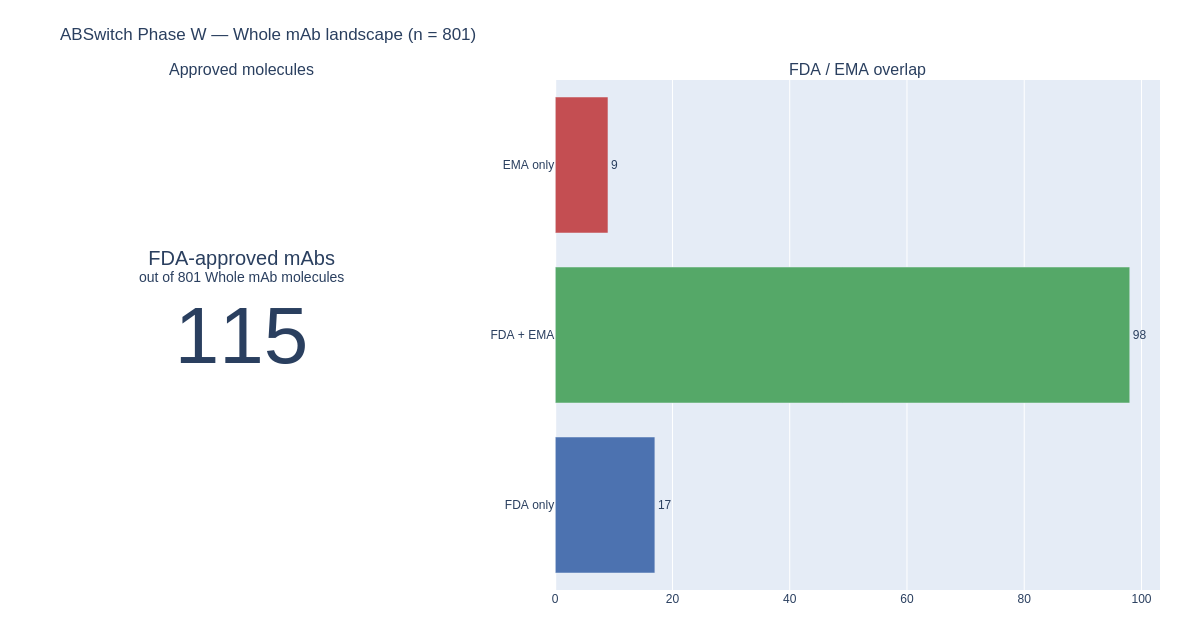
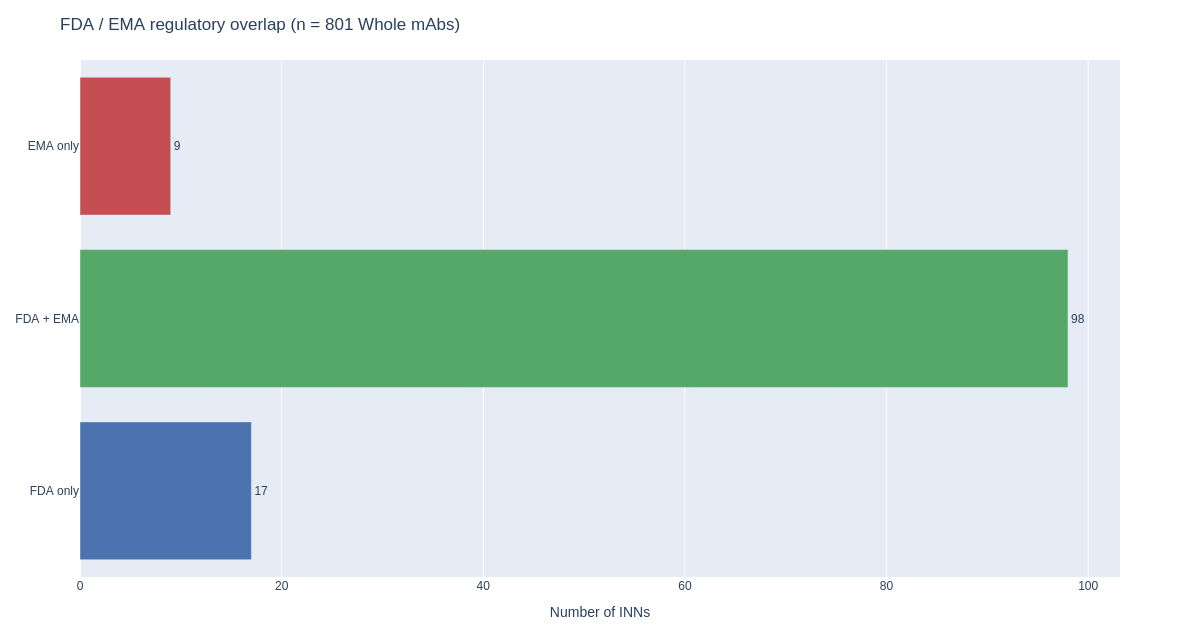
ABSwitch Phase W: publish dashboard + Excel + thumbnail (2026-04-19 22:51)

diff --git a/storybooks/abswitch_wmab/dashboard.html b/storybooks/abswitch_wmab/dashboard.html
@@ -44,16 +44,32 @@ nav a.dl-btn:hover { background: #34495e; }
 main { padding: 20px 40px; }
 .tab { display: none; }
 .tab.active { display: block; }
-.metric-row { display: flex; gap: 20px; margin-bottom: 20px; flex-wrap: wrap; }
+
+.metric-section {
+  margin-bottom: 14px;
+}
+.metric-section-title {
+  font-size: 11px; color: #888; font-weight: 600;
+  text-transform: uppercase; letter-spacing: 0.05em;
+  margin: 0 0 8px 4px;
+}
+.metric-grid {
+  display: grid;
+  grid-template-columns: repeat(3, 1fr);
+  gap: 16px;
+}
 .metric {
   background: white; border: 1px solid #e0e0e0; border-radius: 6px;
-  padding: 16px 20px; min-width: 140px;
+  padding: 16px 20px;
+  min-width: 0;
 }
 .metric .val   { font-size: 26px; font-weight: 600; color: #2c3e50; }
 .metric .label { font-size: 12px; color: #777; margin-top: 4px; }
+
 .fig-container {
   background: white; border: 1px solid #e0e0e0; border-radius: 6px;
   padding: 16px; margin-bottom: 20px;
+  margin-top: 20px;
 }
 footer { padding: 20px 40px; font-size: 12px; color: #888; }
 </style>
@@ -78,18 +94,35 @@ footer { padding: 20px 40px; font-size: 12px; color: #888; }
 <main>
 
   <section id="overview" class="tab active">
-    <div class="metric-row">
-      <div class="metric"><div class="val">801</div><div class="label">Whole mAb molecules (Thera-SAbDab)</div></div>
-      <div class="metric"><div class="val">115</div><div class="label">FDA-approved INNs</div></div>
-      <div class="metric"><div class="val">107</div><div class="label">EMA-approved INNs</div></div>
-      <div class="metric"><div class="val">18</div><div class="label">INNs with IV/SC dual product</div></div>
-      <div class="metric"><div class="val">567</div><div class="label">Approved products</div></div>
-      <div class="metric"><div class="val">121</div><div class="label">Originator brands</div></div>
-      <div class="metric"><div class="val">163</div><div class="label">Biosimilar brands</div></div>
-      <div class="metric"><div class="val">28,047</div><div class="label">ClinicalTrials.gov mAb trials</div></div>
-      <div class="metric"><div class="val">30</div><div class="label">IV → SC brand pairs</div></div>
+
+    <div class="metric-section">
+      <div class="metric-section-title">Overview — three axes</div>
+      <div class="metric-grid">
+        <div class="metric"><div class="val">801</div><div class="label">Whole mAb molecules (INNs)</div></div>
+        <div class="metric"><div class="val">567</div><div class="label">Approved products</div></div>
+        <div class="metric"><div class="val">28,047</div><div class="label">ClinicalTrials.gov mAb trials</div></div>
+      </div>
     </div>
-    <div class="fig-container"><div>                            <div id="fig-overview" class="plotly-graph-div" style="height:350px; width:100%;"></div>            <script type="text/javascript">                                    window.PLOTLYENV=window.PLOTLYENV || {};                                    if (document.getElementById("fig-overview")) {                    Plotly.newPlot(                        "fig-overview",                        [{"mode":"number","number":{"valueformat":",.0f"},"title":{"text":"FDA-approved mAbs\u003cbr\u003e\u003csup\u003eout of 801 Whole mAb molecules\u003c\u002fsup\u003e"},"value":115,"type":"indicator","domain":{"x":[0.0,0.36000000000000004],"y":[0.0,1.0]}},{"marker":{"color":["#4C72B0","#55A868","#C44E52"]},"orientation":"h","text":["17","98","9"],"textposition":"outside","x":[17,98,9],"y":["FDA only","FDA + EMA","EMA only"],"type":"bar","xaxis":"x","yaxis":"y"}],                        {"template":{"data":{"histogram2dcontour":[{"type":"histogram2dcontour","colorbar":{"outlinewidth":0,"ticks":""},"colorscale":[[0.0,"#0d0887"],[0.1111111111111111,"#46039f"],[0.2222222222222222,"#7201a8"],[0.3333333333333333,"#9c179e"],[0.4444444444444444,"#bd3786"],[0.5555555555555556,"#d8576b"],[0.6666666666666666,"#ed7953"],[0.7777777777777778,"#fb9f3a"],[0.8888888888888888,"#fdca26"],[1.0,"#f0f921"]]}],"choropleth":[{"type":"choropleth","colorbar":{"outlinewidth":0,"ticks":""}}],"histogram2d":[{"type":"histogram2d","colorbar":{"outlinewidth":0,"ticks":""},"colorscale":[[0.0,"#0d0887"],[0.1111111111111111,"#46039f"],[0.2222222222222222,"#7201a8"],[0.3333333333333333,"#9c179e"],[0.4444444444444444,"#bd3786"],[0.5555555555555556,"#d8576b"],[0.6666666666666666,"#ed7953"],[0.7777777777777778,"#fb9f3a"],[0.8888888888888888,"#fdca26"],[1.0,"#f0f921"]]}],"heatmap":[{"type":"heatmap","colorbar":{"outlinewidth":0,"ticks":""},"colorscale":[[0.0,"#0d0887"],[0.1111111111111111,"#46039f"],[0.2222222222222222,"#7201a8"],[0.3333333333333333,"#9c179e"],[0.4444444444444444,"#bd3786"],[0.5555555555555556,"#d8576b"],[0.6666666666666666,"#ed7953"],[0.7777777777777778,"#fb9f3a"],[0.8888888888888888,"#fdca26"],[1.0,"#f0f921"]]}],"heatmapgl":[{"type":"heatmapgl","colorbar":{"outlinewidth":0,"ticks":""},"colorscale":[[0.0,"#0d0887"],[0.1111111111111111,"#46039f"],[0.2222222222222222,"#7201a8"],[0.3333333333333333,"#9c179e"],[0.4444444444444444,"#bd3786"],[0.5555555555555556,"#d8576b"],[0.6666666666666666,"#ed7953"],[0.7777777777777778,"#fb9f3a"],[0.8888888888888888,"#fdca26"],[1.0,"#f0f921"]]}],"contourcarpet":[{"type":"contourcarpet","colorbar":{"outlinewidth":0,"ticks":""}}],"contour":[{"type":"contour","colorbar":{"outlinewidth":0,"ticks":""},"colorscale":[[0.0,"#0d0887"],[0.1111111111111111,"#46039f"],[0.2222222222222222,"#7201a8"],[0.3333333333333333,"#9c179e"],[0.4444444444444444,"#bd3786"],[0.5555555555555556,"#d8576b"],[0.6666666666666666,"#ed7953"],[0.7777777777777778,"#fb9f3a"],[0.8888888888888888,"#fdca26"],[1.0,"#f0f921"]]}],"surface":[{"type":"surface","colorbar":{"outlinewidth":0,"ticks":""},"colorscale":[[0.0,"#0d0887"],[0.1111111111111111,"#46039f"],[0.2222222222222222,"#7201a8"],[0.3333333333333333,"#9c179e"],[0.4444444444444444,"#bd3786"],[0.5555555555555556,"#d8576b"],[0.6666666666666666,"#ed7953"],[0.7777777777777778,"#fb9f3a"],[0.8888888888888888,"#fdca26"],[1.0,"#f0f921"]]}],"mesh3d":[{"type":"mesh3d","colorbar":{"outlinewidth":0,"ticks":""}}],"scatter":[{"fillpattern":{"fillmode":"overlay","size":10,"solidity":0.2},"type":"scatter"}],"parcoords":[{"type":"parcoords","line":{"colorbar":{"outlinewidth":0,"ticks":""}}}],"scatterpolargl":[{"type":"scatterpolargl","marker":{"colorbar":{"outlinewidth":0,"ticks":""}}}],"bar":[{"error_x":{"color":"#2a3f5f"},"error_y":{"color":"#2a3f5f"},"marker":{"line":{"color":"#E5ECF6","width":0.5},"pattern":{"fillmode":"overlay","size":10,"solidity":0.2}},"type":"bar"}],"scattergeo":[{"type":"scattergeo","marker":{"colorbar":{"outlinewidth":0,"ticks":""}}}],"scatterpolar":[{"type":"scatterpolar","marker":{"colorbar":{"outlinewidth":0,"ticks":""}}}],"histogram":[{"marker":{"pattern":{"fillmode":"overlay","size":10,"solidity":0.2}},"type":"histogram"}],"scattergl":[{"type":"scattergl","marker":{"colorbar":{"outlinewidth":0,"ticks":""}}}],"scatter3d":[{"type":"scatter3d","line":{"colorbar":{"outlinewidth":0,"ticks":""}},"marker":{"colorbar":{"outlinewidth":0,"ticks":""}}}],"scattermapbox":[{"type":"scattermapbox","marker":{"colorbar":{"outlinewidth":0,"ticks":""}}}],"scatterternary":[{"type":"scatterternary","marker":{"colorbar":{"outlinewidth":0,"ticks":""}}}],"scattercarpet":[{"type":"scattercarpet","marker":{"colorbar":{"outlinewidth":0,"ticks":""}}}],"carpet":[{"aaxis":{"endlinecolor":"#2a3f5f","gridcolor":"white","linecolor":"white","minorgridcolor":"white","startlinecolor":"#2a3f5f"},"baxis":{"endlinecolor":"#2a3f5f","gridcolor":"white","linecolor":"white","minorgridcolor":"white","startlinecolor":"#2a3f5f"},"type":"carpet"}],"table":[{"cells":{"fill":{"color":"#EBF0F8"},"line":{"color":"white"}},"header":{"fill":{"color":"#C8D4E3"},"line":{"color":"white"}},"type":"table"}],"barpolar":[{"marker":{"line":{"color":"#E5ECF6","width":0.5},"pattern":{"fillmode":"overlay","size":10,"solidity":0.2}},"type":"barpolar"}],"pie":[{"automargin":true,"type":"pie"}]},"layout":{"autotypenumbers":"strict","colorway":["#636efa","#EF553B","#00cc96","#ab63fa","#FFA15A","#19d3f3","#FF6692","#B6E880","#FF97FF","#FECB52"],"font":{"color":"#2a3f5f"},"hovermode":"closest","hoverlabel":{"align":"left"},"paper_bgcolor":"white","plot_bgcolor":"#E5ECF6","polar":{"bgcolor":"#E5ECF6","angularaxis":{"gridcolor":"white","linecolor":"white","ticks":""},"radialaxis":{"gridcolor":"white","linecolor":"white","ticks":""}},"ternary":{"bgcolor":"#E5ECF6","aaxis":{"gridcolor":"white","linecolor":"white","ticks":""},"baxis":{"gridcolor":"white","linecolor":"white","ticks":""},"caxis":{"gridcolor":"white","linecolor":"white","ticks":""}},"coloraxis":{"colorbar":{"outlinewidth":0,"ticks":""}},"colorscale":{"sequential":[[0.0,"#0d0887"],[0.1111111111111111,"#46039f"],[0.2222222222222222,"#7201a8"],[0.3333333333333333,"#9c179e"],[0.4444444444444444,"#bd3786"],[0.5555555555555556,"#d8576b"],[0.6666666666666666,"#ed7953"],[0.7777777777777778,"#fb9f3a"],[0.8888888888888888,"#fdca26"],[1.0,"#f0f921"]],"sequentialminus":[[0.0,"#0d0887"],[0.1111111111111111,"#46039f"],[0.2222222222222222,"#7201a8"],[0.3333333333333333,"#9c179e"],[0.4444444444444444,"#bd3786"],[0.5555555555555556,"#d8576b"],[0.6666666666666666,"#ed7953"],[0.7777777777777778,"#fb9f3a"],[0.8888888888888888,"#fdca26"],[1.0,"#f0f921"]],"diverging":[[0,"#8e0152"],[0.1,"#c51b7d"],[0.2,"#de77ae"],[0.3,"#f1b6da"],[0.4,"#fde0ef"],[0.5,"#f7f7f7"],[0.6,"#e6f5d0"],[0.7,"#b8e186"],[0.8,"#7fbc41"],[0.9,"#4d9221"],[1,"#276419"]]},"xaxis":{"gridcolor":"white","linecolor":"white","ticks":"","title":{"standoff":15},"zerolinecolor":"white","automargin":true,"zerolinewidth":2},"yaxis":{"gridcolor":"white","linecolor":"white","ticks":"","title":{"standoff":15},"zerolinecolor":"white","automargin":true,"zerolinewidth":2},"scene":{"xaxis":{"backgroundcolor":"#E5ECF6","gridcolor":"white","linecolor":"white","showbackground":true,"ticks":"","zerolinecolor":"white","gridwidth":2},"yaxis":{"backgroundcolor":"#E5ECF6","gridcolor":"white","linecolor":"white","showbackground":true,"ticks":"","zerolinecolor":"white","gridwidth":2},"zaxis":{"backgroundcolor":"#E5ECF6","gridcolor":"white","linecolor":"white","showbackground":true,"ticks":"","zerolinecolor":"white","gridwidth":2}},"shapedefaults":{"line":{"color":"#2a3f5f"}},"annotationdefaults":{"arrowcolor":"#2a3f5f","arrowhead":0,"arrowwidth":1},"geo":{"bgcolor":"white","landcolor":"#E5ECF6","subunitcolor":"white","showland":true,"showlakes":true,"lakecolor":"white"},"title":{"x":0.05},"mapbox":{"style":"light"}}},"xaxis":{"anchor":"y","domain":[0.4600000000000001,1.0]},"yaxis":{"anchor":"x","domain":[0.0,1.0]},"annotations":[{"font":{"size":16},"showarrow":false,"text":"Approved molecules","x":0.18000000000000002,"xanchor":"center","xref":"paper","y":1.0,"yanchor":"bottom","yref":"paper"},{"font":{"size":16},"showarrow":false,"text":"FDA \u002f EMA overlap","x":0.73,"xanchor":"center","xref":"paper","y":1.0,"yanchor":"bottom","yref":"paper"}],"margin":{"l":40,"r":40,"t":80,"b":40},"title":{"text":"ABSwitch Phase W — Whole mAb landscape (n = 801)"},"height":350,"showlegend":false},                        {"responsive": true}                    )                };                            </script>        </div></div>
+
+    <div class="metric-section">
+      <div class="metric-section-title">INN detail</div>
+      <div class="metric-grid">
+        <div class="metric"><div class="val">115</div><div class="label">FDA-approved INNs</div></div>
+        <div class="metric"><div class="val">107</div><div class="label">EMA-approved INNs</div></div>
+        <div class="metric"><div class="val">18</div><div class="label">INNs with IV/SC dual product</div></div>
+      </div>
+    </div>
+
+    <div class="metric-section">
+      <div class="metric-section-title">Products detail</div>
+      <div class="metric-grid">
+        <div class="metric"><div class="val">121</div><div class="label">Originator brands</div></div>
+        <div class="metric"><div class="val">163</div><div class="label">Biosimilar brands</div></div>
+        <div class="metric"><div class="val">30</div><div class="label">IV → SC brand pairs</div></div>
+      </div>
+    </div>
+
+    <div class="fig-container"><div>                            <div id="fig-overview" class="plotly-graph-div" style="height:320px; width:100%;"></div>            <script type="text/javascript">                                    window.PLOTLYENV=window.PLOTLYENV || {};                                    if (document.getElementById("fig-overview")) {                    Plotly.newPlot(                        "fig-overview",                        [{"marker":{"color":["#4C72B0","#55A868","#C44E52"]},"orientation":"h","text":["17","98","9"],"textposition":"outside","x":[17,98,9],"y":["FDA only","FDA + EMA","EMA only"],"type":"bar"}],                        {"template":{"data":{"histogram2dcontour":[{"type":"histogram2dcontour","colorbar":{"outlinewidth":0,"ticks":""},"colorscale":[[0.0,"#0d0887"],[0.1111111111111111,"#46039f"],[0.2222222222222222,"#7201a8"],[0.3333333333333333,"#9c179e"],[0.4444444444444444,"#bd3786"],[0.5555555555555556,"#d8576b"],[0.6666666666666666,"#ed7953"],[0.7777777777777778,"#fb9f3a"],[0.8888888888888888,"#fdca26"],[1.0,"#f0f921"]]}],"choropleth":[{"type":"choropleth","colorbar":{"outlinewidth":0,"ticks":""}}],"histogram2d":[{"type":"histogram2d","colorbar":{"outlinewidth":0,"ticks":""},"colorscale":[[0.0,"#0d0887"],[0.1111111111111111,"#46039f"],[0.2222222222222222,"#7201a8"],[0.3333333333333333,"#9c179e"],[0.4444444444444444,"#bd3786"],[0.5555555555555556,"#d8576b"],[0.6666666666666666,"#ed7953"],[0.7777777777777778,"#fb9f3a"],[0.8888888888888888,"#fdca26"],[1.0,"#f0f921"]]}],"heatmap":[{"type":"heatmap","colorbar":{"outlinewidth":0,"ticks":""},"colorscale":[[0.0,"#0d0887"],[0.1111111111111111,"#46039f"],[0.2222222222222222,"#7201a8"],[0.3333333333333333,"#9c179e"],[0.4444444444444444,"#bd3786"],[0.5555555555555556,"#d8576b"],[0.6666666666666666,"#ed7953"],[0.7777777777777778,"#fb9f3a"],[0.8888888888888888,"#fdca26"],[1.0,"#f0f921"]]}],"heatmapgl":[{"type":"heatmapgl","colorbar":{"outlinewidth":0,"ticks":""},"colorscale":[[0.0,"#0d0887"],[0.1111111111111111,"#46039f"],[0.2222222222222222,"#7201a8"],[0.3333333333333333,"#9c179e"],[0.4444444444444444,"#bd3786"],[0.5555555555555556,"#d8576b"],[0.6666666666666666,"#ed7953"],[0.7777777777777778,"#fb9f3a"],[0.8888888888888888,"#fdca26"],[1.0,"#f0f921"]]}],"contourcarpet":[{"type":"contourcarpet","colorbar":{"outlinewidth":0,"ticks":""}}],"contour":[{"type":"contour","colorbar":{"outlinewidth":0,"ticks":""},"colorscale":[[0.0,"#0d0887"],[0.1111111111111111,"#46039f"],[0.2222222222222222,"#7201a8"],[0.3333333333333333,"#9c179e"],[0.4444444444444444,"#bd3786"],[0.5555555555555556,"#d8576b"],[0.6666666666666666,"#ed7953"],[0.7777777777777778,"#fb9f3a"],[0.8888888888888888,"#fdca26"],[1.0,"#f0f921"]]}],"surface":[{"type":"surface","colorbar":{"outlinewidth":0,"ticks":""},"colorscale":[[0.0,"#0d0887"],[0.1111111111111111,"#46039f"],[0.2222222222222222,"#7201a8"],[0.3333333333333333,"#9c179e"],[0.4444444444444444,"#bd3786"],[0.5555555555555556,"#d8576b"],[0.6666666666666666,"#ed7953"],[0.7777777777777778,"#fb9f3a"],[0.8888888888888888,"#fdca26"],[1.0,"#f0f921"]]}],"mesh3d":[{"type":"mesh3d","colorbar":{"outlinewidth":0,"ticks":""}}],"scatter":[{"fillpattern":{"fillmode":"overlay","size":10,"solidity":0.2},"type":"scatter"}],"parcoords":[{"type":"parcoords","line":{"colorbar":{"outlinewidth":0,"ticks":""}}}],"scatterpolargl":[{"type":"scatterpolargl","marker":{"colorbar":{"outlinewidth":0,"ticks":""}}}],"bar":[{"error_x":{"color":"#2a3f5f"},"error_y":{"color":"#2a3f5f"},"marker":{"line":{"color":"#E5ECF6","width":0.5},"pattern":{"fillmode":"overlay","size":10,"solidity":0.2}},"type":"bar"}],"scattergeo":[{"type":"scattergeo","marker":{"colorbar":{"outlinewidth":0,"ticks":""}}}],"scatterpolar":[{"type":"scatterpolar","marker":{"colorbar":{"outlinewidth":0,"ticks":""}}}],"histogram":[{"marker":{"pattern":{"fillmode":"overlay","size":10,"solidity":0.2}},"type":"histogram"}],"scattergl":[{"type":"scattergl","marker":{"colorbar":{"outlinewidth":0,"ticks":""}}}],"scatter3d":[{"type":"scatter3d","line":{"colorbar":{"outlinewidth":0,"ticks":""}},"marker":{"colorbar":{"outlinewidth":0,"ticks":""}}}],"scattermapbox":[{"type":"scattermapbox","marker":{"colorbar":{"outlinewidth":0,"ticks":""}}}],"scatterternary":[{"type":"scatterternary","marker":{"colorbar":{"outlinewidth":0,"ticks":""}}}],"scattercarpet":[{"type":"scattercarpet","marker":{"colorbar":{"outlinewidth":0,"ticks":""}}}],"carpet":[{"aaxis":{"endlinecolor":"#2a3f5f","gridcolor":"white","linecolor":"white","minorgridcolor":"white","startlinecolor":"#2a3f5f"},"baxis":{"endlinecolor":"#2a3f5f","gridcolor":"white","linecolor":"white","minorgridcolor":"white","startlinecolor":"#2a3f5f"},"type":"carpet"}],"table":[{"cells":{"fill":{"color":"#EBF0F8"},"line":{"color":"white"}},"header":{"fill":{"color":"#C8D4E3"},"line":{"color":"white"}},"type":"table"}],"barpolar":[{"marker":{"line":{"color":"#E5ECF6","width":0.5},"pattern":{"fillmode":"overlay","size":10,"solidity":0.2}},"type":"barpolar"}],"pie":[{"automargin":true,"type":"pie"}]},"layout":{"autotypenumbers":"strict","colorway":["#636efa","#EF553B","#00cc96","#ab63fa","#FFA15A","#19d3f3","#FF6692","#B6E880","#FF97FF","#FECB52"],"font":{"color":"#2a3f5f"},"hovermode":"closest","hoverlabel":{"align":"left"},"paper_bgcolor":"white","plot_bgcolor":"#E5ECF6","polar":{"bgcolor":"#E5ECF6","angularaxis":{"gridcolor":"white","linecolor":"white","ticks":""},"radialaxis":{"gridcolor":"white","linecolor":"white","ticks":""}},"ternary":{"bgcolor":"#E5ECF6","aaxis":{"gridcolor":"white","linecolor":"white","ticks":""},"baxis":{"gridcolor":"white","linecolor":"white","ticks":""},"caxis":{"gridcolor":"white","linecolor":"white","ticks":""}},"coloraxis":{"colorbar":{"outlinewidth":0,"ticks":""}},"colorscale":{"sequential":[[0.0,"#0d0887"],[0.1111111111111111,"#46039f"],[0.2222222222222222,"#7201a8"],[0.3333333333333333,"#9c179e"],[0.4444444444444444,"#bd3786"],[0.5555555555555556,"#d8576b"],[0.6666666666666666,"#ed7953"],[0.7777777777777778,"#fb9f3a"],[0.8888888888888888,"#fdca26"],[1.0,"#f0f921"]],"sequentialminus":[[0.0,"#0d0887"],[0.1111111111111111,"#46039f"],[0.2222222222222222,"#7201a8"],[0.3333333333333333,"#9c179e"],[0.4444444444444444,"#bd3786"],[0.5555555555555556,"#d8576b"],[0.6666666666666666,"#ed7953"],[0.7777777777777778,"#fb9f3a"],[0.8888888888888888,"#fdca26"],[1.0,"#f0f921"]],"diverging":[[0,"#8e0152"],[0.1,"#c51b7d"],[0.2,"#de77ae"],[0.3,"#f1b6da"],[0.4,"#fde0ef"],[0.5,"#f7f7f7"],[0.6,"#e6f5d0"],[0.7,"#b8e186"],[0.8,"#7fbc41"],[0.9,"#4d9221"],[1,"#276419"]]},"xaxis":{"gridcolor":"white","linecolor":"white","ticks":"","title":{"standoff":15},"zerolinecolor":"white","automargin":true,"zerolinewidth":2},"yaxis":{"gridcolor":"white","linecolor":"white","ticks":"","title":{"standoff":15},"zerolinecolor":"white","automargin":true,"zerolinewidth":2},"scene":{"xaxis":{"backgroundcolor":"#E5ECF6","gridcolor":"white","linecolor":"white","showbackground":true,"ticks":"","zerolinecolor":"white","gridwidth":2},"yaxis":{"backgroundcolor":"#E5ECF6","gridcolor":"white","linecolor":"white","showbackground":true,"ticks":"","zerolinecolor":"white","gridwidth":2},"zaxis":{"backgroundcolor":"#E5ECF6","gridcolor":"white","linecolor":"white","showbackground":true,"ticks":"","zerolinecolor":"white","gridwidth":2}},"shapedefaults":{"line":{"color":"#2a3f5f"}},"annotationdefaults":{"arrowcolor":"#2a3f5f","arrowhead":0,"arrowwidth":1},"geo":{"bgcolor":"white","landcolor":"#E5ECF6","subunitcolor":"white","showland":true,"showlakes":true,"lakecolor":"white"},"title":{"x":0.05},"mapbox":{"style":"light"}}},"margin":{"l":80,"r":80,"t":60,"b":40},"title":{"text":"FDA \u002f EMA regulatory overlap (n = 801 Whole mAbs)"},"xaxis":{"title":{"text":"Number of INNs"}},"height":320,"showlegend":false},                        {"responsive": true}                    )                };                            </script>        </div></div>
   </section>
 
   <section id="substances" class="tab">
@@ -112,7 +145,7 @@ footer { padding: 20px 40px; font-size: 12px; color: #888; }
 </main>
 
 <footer>
-  ABSwitch Phase W · Generated 2026-04-19 22:21
+  ABSwitch Phase W · Generated 2026-04-19 22:51
   · substances: 801 · products: 567 · trials: 28,047 · transitions: 30
 </footer>
 
